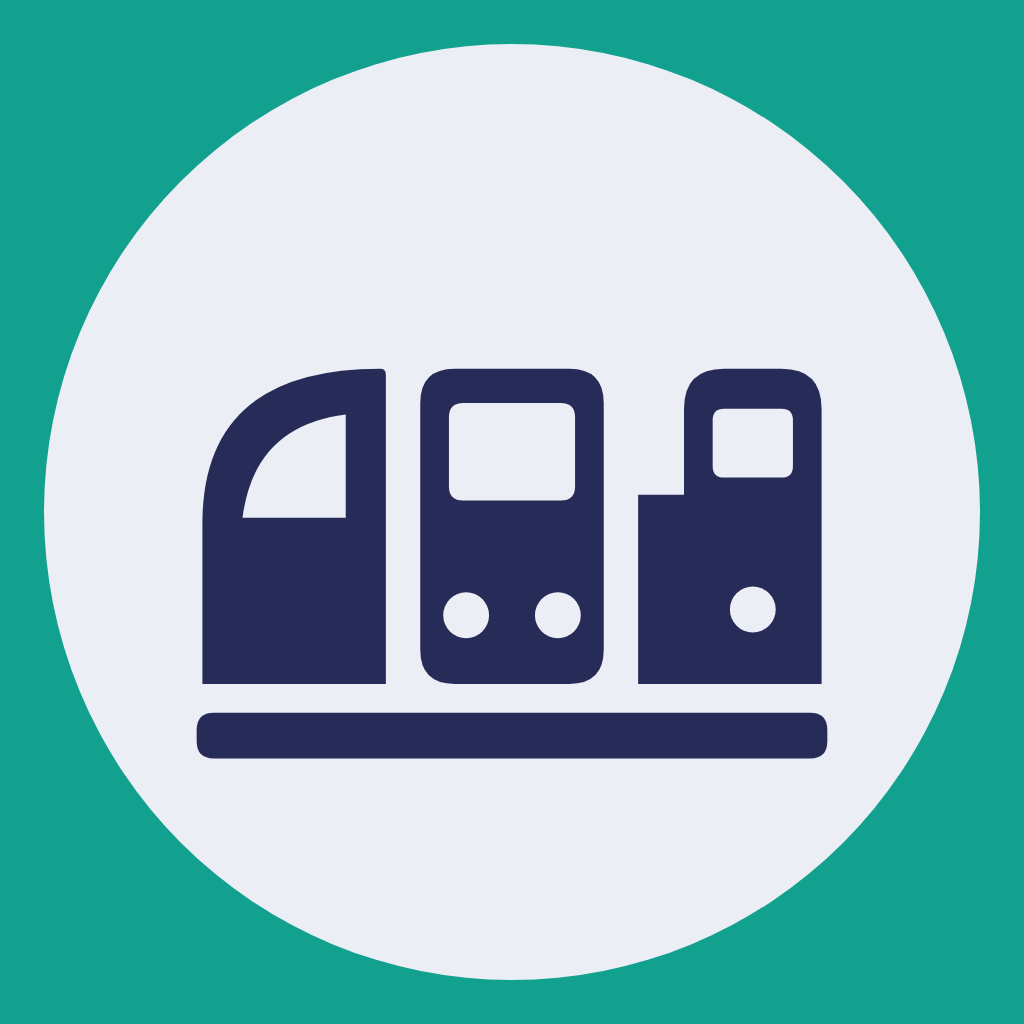
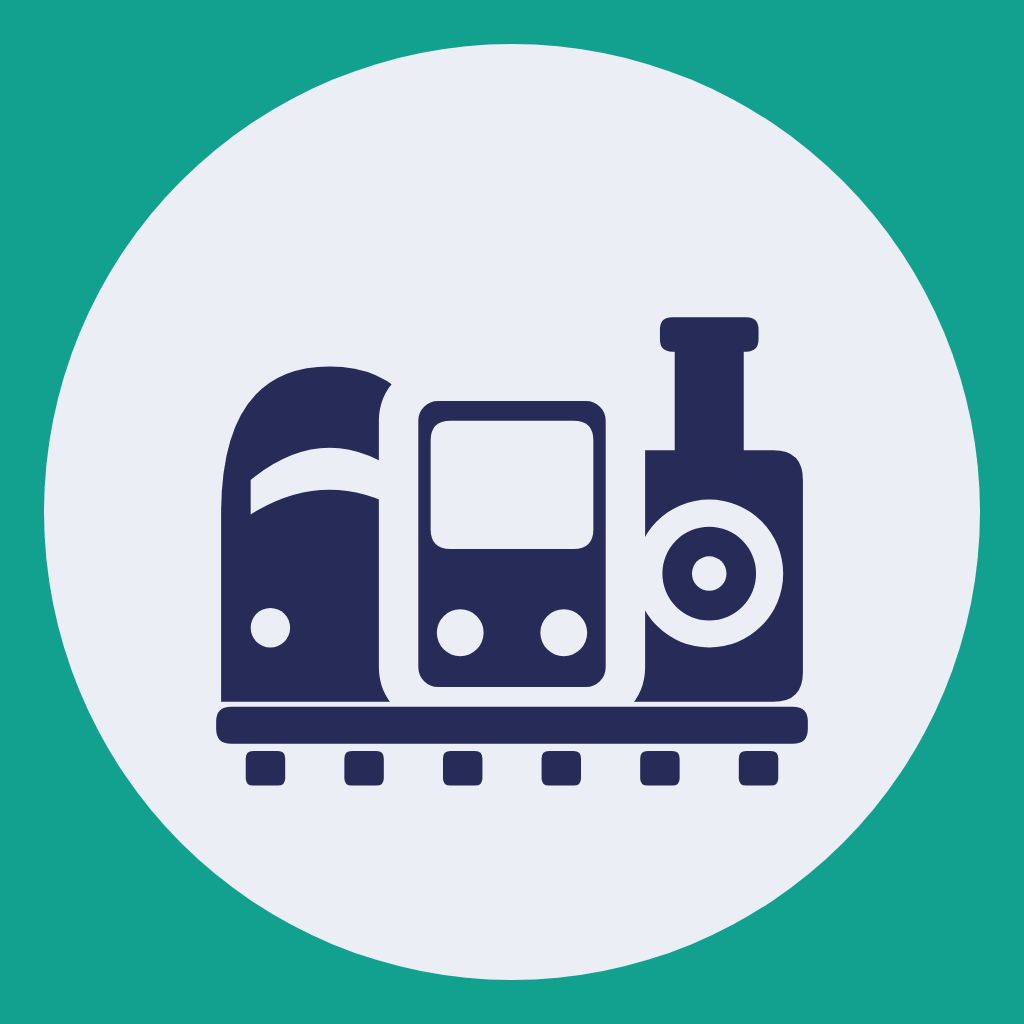
Game Center mixedFleet image: three train fronts on one track (decision 396)
Claude-Session: https://claude.ai/code/session_01V99archiZKLqZkwqTnsajc

Changed region(s): [[0.1875, 0.3125, 0.8125, 0.7812]]

diff --git a/docs/game-center/README.md b/docs/game-center/README.md
@@ -37,7 +37,7 @@
 - 轉乘：改成路線圖的轉乘站記號，一個白底、藏青粗框的膠囊形站體，一條水平線、一條斜線穿過它，兩端都接到圓面邊緣（原本的橢圓加六根輻條像蜘蛛或雪花，斷在站外的版本像太陽）。
 - 環狀線：兩條軌道圍成一圈，枕木畫在兩軌之間（原本伸出外面，像晶片針腳）。
 - 企業集團：摩天輪是主體，百貨和飯店小小地放在下面。
-- 車種齊全：三種車頭改矮、改寬，車窗不同（原本像瓶子）。
+- 車種齊全：三個正面車頭並排站在同一段軌道上，中間最前面是通勤電聯車（方形車身、大擋風窗、兩顆頭燈），左後是高鐵（圓頂、弧形擋風窗），右後是蒸汽機車（圓形煙室門、煙囪）。原本側面和正面混在一起，又像擺在架子上（作者：「有點怪怪的」）。
 
 ## 選了哪一種
 
